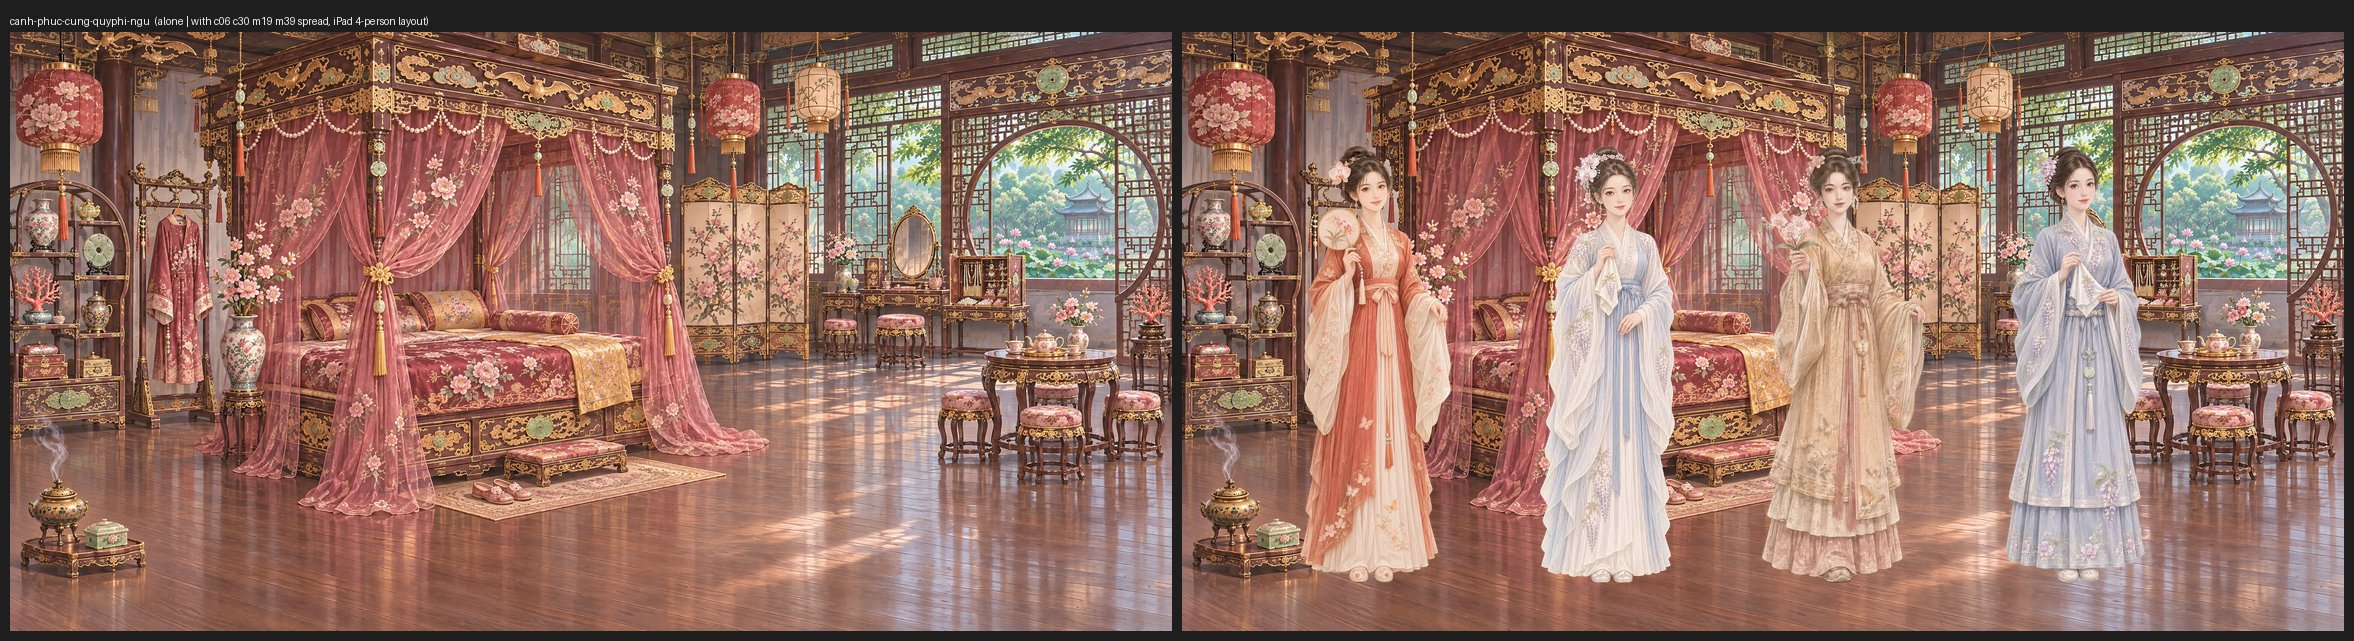
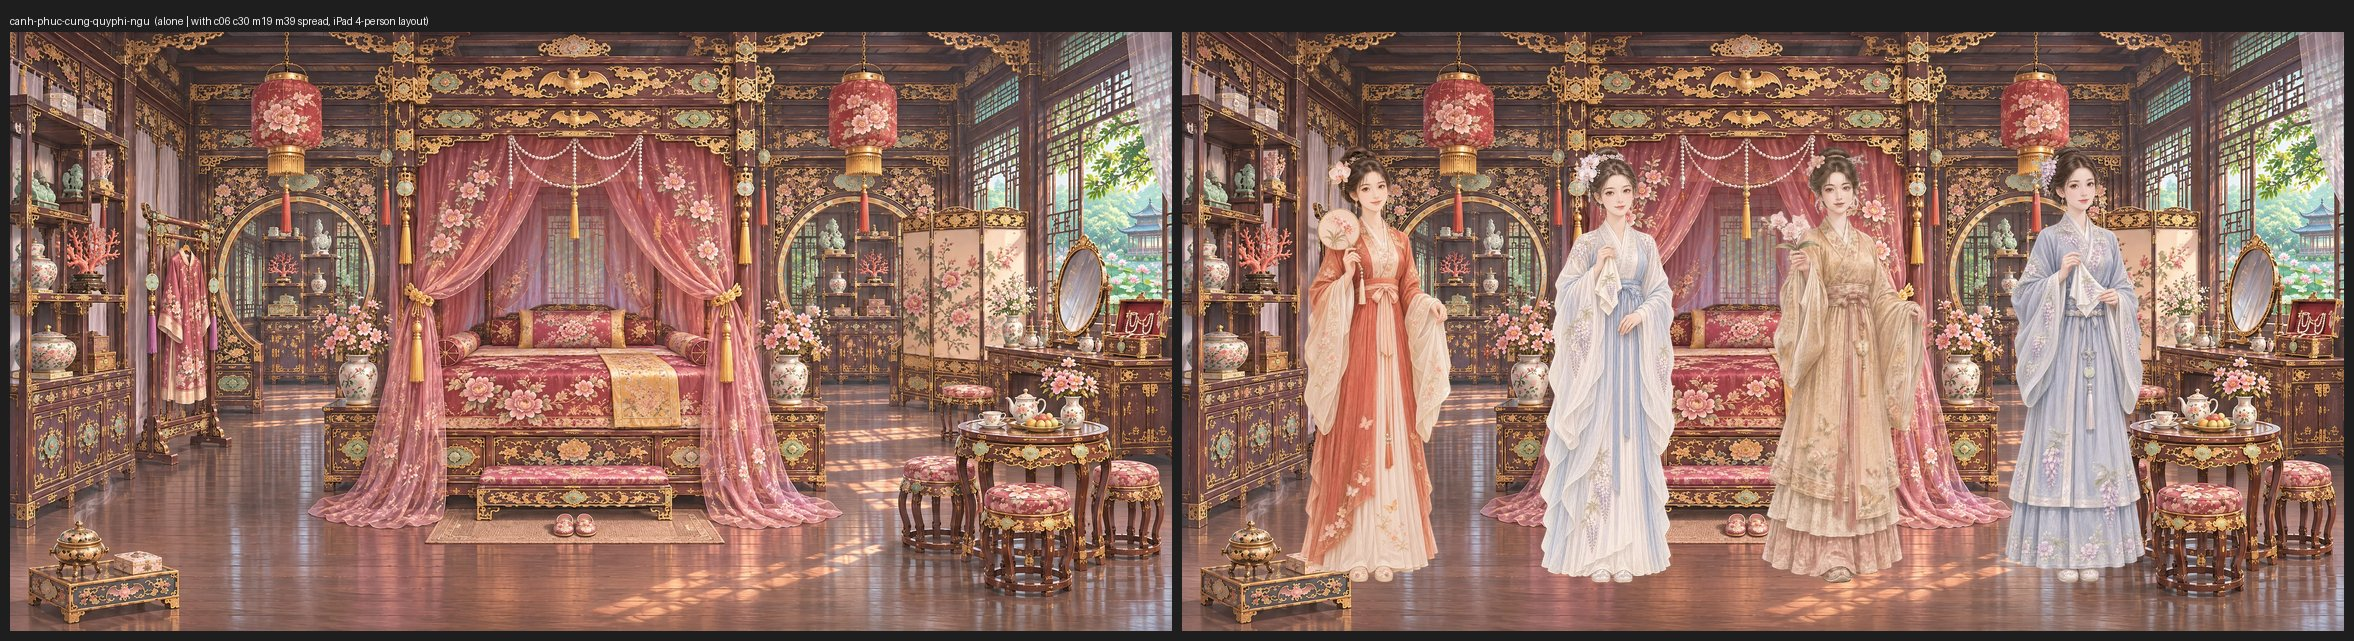
place-rank v5 (Lượt 491): Tần/Quý phi bedrooms new layouts, Phi/Quý phi receptions rectilinear, phối colours by object type + right corner; sheets, ledger, report
Claude-Session: https://claude.ai/code/session_01PEhRbwZcg5EhaVX7kgkTY3

diff --git a/dev/art/place-rank/prompts.py b/dev/art/place-rank/prompts.py
@@ -3,7 +3,7 @@
 v3 (owner Lượt 461 A–D + Lượt 462): luohan daybed receptions, bottom-right corner rule, phối bedroom with two beds + three low-rank
 colours, richness shifted up one step (phối = old Tần level), Quý phi gold-yellow a bit more visible.
 python3 dev/art/place-rank/prompts.py  -> writes prompts.json next to this file."""
-import json, os
+import json, os, re
 D = os.path.dirname(os.path.abspath(__file__))
 T = open(os.path.join(D, '..', 'place-redraw', 'prompt_template.txt')).read().strip()
 NOPE = ' No phoenix anywhere (no phoenix carving, embroidery, figure or pendant), no imperial yellow, no golden-yellow fabrics.'
@@ -89,11 +89,73 @@ ROOMS['thua-minh-cung-dong-phoi'] = dict(room="Thừa Minh cung Đông phối đ
         floor='warm polished wooden floorboards', mat='the luohan daybed', key='the luohan daybed with its kang table')
 V4REF = 'SyhTG51Ub8'  # image 3 = layout reference (v3 Phi bedroom)
 V4 = ('canh-phuc-cung-phi', 'canh-phuc-cung-quyphi', 'thua-minh-cung-dong-phoi-ngu', 'thua-minh-cung-dong-phoi')
+
+# ---- v5 (owner Lượt 491, FIGURE_GATE 14d, ART_RULES L5 L7 L11; ROOT-49 GO for ONE round) ----
+# KEEP: canh-phuc-cung-phi-ngu (v3 SyhTG51Ub8 = layout template), canh-phuc-cung-tan (WDgFohIcXe), thua-minh-cung-dong-phoi (JNCp5R3Oq4),
+# khon-ninh-cung + khon-ninh-cung-ngu. REDRAW: tan-ngu, quyphi-ngu, phi + quyphi receptions, phối bedroom. Tần ≠ Phi ≠ Quý phi (L11).
+RECT = (" ROOM SHAPE (owner Lượt 491): the room reads rectilinear with square corners, straight walls and straight beams, never a curved hall, "
+        "never furniture in an arc or a curve; every piece of furniture stands in clear straight lines along the walls, square to the walls, orderly, "
+        "never scattered and never at a slant.")
+CORNER5 = (" LAYOUT NUMBERS (owner Lượt 477, 491): seen from as close as in image 3, the furniture fills about five sixths of the room, the main piece "
+           "large with its base reaching down to about four fifths of the picture height; the open floor in front is only a strip of about one fifth "
+           "of the picture height at the centre, never more floor than in image 3, and nothing stands on that strip, because people will stand there. "
+           "Image 3 is only a guide for how close and how full the room is, NOT for where things stand: this room has its own different arrangement "
+           "as written above. The right corner is furnished, never empty or bare: a table group stands there inside the outer fifth of the width, "
+           "set back from the bottom edge, between one half and seven eighths of the picture height, so a person standing in front of it covers it naturally.")
+L5BED = {
+ 'tan': ("seen as a corner of two walls meeting at a square corner on the right: the back wall straight across the picture and the right side wall "
+         "running towards the viewer in clear perspective, with tall carved lattice windows in the right side wall onto a sunny courtyard garden with "
+         "a tree and a lotus pond; dark rosewood pillars and beams; the canopy bed stands in a real bed place in the RIGHT half of the back wall: set "
+         "deep into a carved rosewood bed alcove built into the back wall just right of the centre (the bed between about two fifths and three quarters "
+         "of the width), its back and both ends enclosed by the alcove, its long side facing the room, two steps in front of it; in the LEFT part of "
+         "the back wall a carved wooden partition with a round moon-gate opening shows a glimpse of a small study with a desk and bookshelves; between "
+         "the moon gate and the bed alcove a dressing table with a mirror stands flat against the back wall; "),
+ 'quyphi': ("seen straight on as a correct box of three walls with square corners: the back wall straight across the picture and the left and right "
+            "side walls running towards the viewer in clear one-point perspective; dark rosewood pillars and beams; the canopy bed stands exactly "
+            "centred against the back wall on a low carved platform, perfectly symmetric, with a carved rosewood partition with a round moon-gate "
+            "opening on EACH side of it in the back wall, the two moon gates mirroring each other; tall carved lattice windows in the right side wall "
+            "onto a sunny courtyard garden with a tree and a lotus pond; tall curio shelves standing flat against the left side wall; "),
+}
+L5REC = {
+ 'phi': ("seen as a corner of two walls meeting at a square corner on the left: the back wall straight across the picture and the left side wall "
+         "running towards the viewer in clear perspective; dark rosewood pillars and beams, carved lattice windows across the right part of the back "
+         "wall opening onto a sunny courtyard garden with a tree and a lotus pond, a carved wooden partition with a round moon-gate opening in the "
+         "left side wall; the luohan daybed stands against the back wall a little right of the centre, square to it and seen straight on, a carved "
+         "screen behind it; ONE straight row of armchairs with tea tables between them stands flat along the left side wall, from the moon gate "
+         "towards the room, square to that wall (seen in perspective, never curved); one more pair of armchairs with a tea table stands in a straight "
+         "line against the back wall to the left of the daybed; "),
+ 'quyphi': ("seen straight on as a correct box of three walls with square corners: the back wall straight across the picture and the left and right "
+            "side walls running towards the viewer in clear one-point perspective, like a real rectangular hall; dark rosewood pillars and beams, "
+            "carved lattice windows high in both side walls opening onto a sunny courtyard garden, a carved wooden partition with a round moon-gate "
+            "opening in the back wall to the left; the luohan daybed stands on a low wide platform against the back wall, exactly centred, square to "
+            "it and seen straight on, a large screen behind it; TWO straight rows of armchairs with tea tables between them stand along the left and "
+            "the right side walls, each row flat against its wall and square to it, the two rows facing each other across the room (seen in "
+            "perspective, never curved, never turned towards the viewer); "),
+}
+for k in ('tan', 'quyphi'):
+    r = RANK[k]
+    ROOMS[f'canh-phuc-cung-{k}-ngu'] = dict(room="Cảnh Phúc cung chính điện bedroom, the private bedchamber of the imperial consort who heads this palace in ancient China, a real room in daily use, "
+        + L5BED[k] + "the canopy bed is the large clear main subject: " + r['bed'] + "; around the room, along the walls, " + r['bedx'] + ". " + CARD_CP + r['lux']
+        + f" The {r['col']} accent colour is woven through the bedding, curtains and cushions." + (NOPE_QF if r['nope'] else NOPE) + RECT + CORNER5,
+        floor='warm polished wooden floorboards', mat='the bed step', key='the canopy bed')
+for k in ('phi', 'quyphi'):
+    r = RANK[k]
+    ROOMS[f'canh-phuc-cung-{k}'] = dict(room="Cảnh Phúc cung chính điện reception room, the sitting room where the imperial consort who heads this palace in ancient China receives her guests, a real room in daily use, no bed anywhere: "
+        + L5REC[k] + "the furniture: " + re.sub(r', flanked on each side by a pair of (.*?) with a small tea table between each pair', r'; the armchairs are \1, standing only in the straight rows described above', r['rec']) + ". " + CARD_CP + r['lux'] + f" The {r['col']} accent colour is woven through the cushions, curtains and silks."
+        + (NOPE_QF if r['nope'] else NOPE) + NOSOFA + RECT + CORNER5,
+        floor='warm polished wooden floorboards', mat='the luohan daybed', key='the luohan daybed with its kang table')
+# PHỐI v5 (L7): split by OBJECT TYPE, not by bed: ALL curtains pale blue, ALL furniture fabrics pale green; layout close to v4 1ldAmKir4r (image 3 here)
+ROOMS['thua-minh-cung-dong-phoi-ngu'] = dict(room="Thừa Minh cung Đông phối điện bedroom, the cosy bedchamber SHARED by two lower-ranking imperial consorts (a Thường tại and a Quý nhân) living in the east side hall of a palace in ancient China, a real room in daily use, seen from a little closer so the room feels snug and full, not a big empty hall: wooden pillars, lattice windows at the back onto a sunny garden, the back wall and both sides lined with furniture; TWO canopy beds of carved lacquered wood with painted flowers stand side by side against the back wall, square to it, with a painted orchid screen between them, together the large clear main subject, each bed with its own small dressing table with a bronze mirror, a stool and a clothes rack with a robe; along the walls a shelf with a few boxes and books, hanging paper lanterns with tassels, vases of white and blue orchids, slippers at the bed steps. COLOURS BY OBJECT TYPE (owner Lượt 491): ALL the curtains of the room are pale blue (the gauze curtains of BOTH beds, the window curtains, the lantern tassels), and ALL the furniture fabrics are pale green (the bedding and cushions of BOTH beds, the stool cushions, the seat cushions, the robes on the racks); the two beds look alike in colour, never one bed blue and the other green. " + QN + " Exactly two beds; only the two colours pale blue (curtains) and pale green (fabrics)." + NOPE + RECT + CORNER5.replace("a table group stands there", "a small round tea table with two stools and a low cabinet with a vase of orchids stand there").replace("so a person standing in front of it covers it naturally.", "so a person standing in front of it covers it naturally; this group stands forward in the right part of the room, NOT pushed back against the window wall: its front stools stand at about five sixths of the picture height, so the lower right of the picture is furnished and never bare floor, like the tea table in the right corner of an Empress's bedroom.").replace("Image 3 is only a guide for how close and how full the room is, NOT for where things stand: this room has its own different arrangement as written above.", "Image 3 is the previous version of this same room: keep its layout, closeness and fullness closely; only the colours change and the right corner is furnished."),
+        floor='warm polished wooden floorboards', mat='the bed steps', key='the two canopy beds')
+V5 = ('canh-phuc-cung-tan-ngu', 'canh-phuc-cung-quyphi-ngu', 'canh-phuc-cung-phi', 'canh-phuc-cung-quyphi', 'thua-minh-cung-dong-phoi-ngu')
+V5REF = {k: 'SyhTG51Ub8' for k in V5}; V5REF['thua-minh-cung-dong-phoi-ngu'] = '1ldAmKir4r'  # image 3 (share guide; phối = its own v4 layout)
 out = {}
 for k, r in ROOMS.items():
     out[k] = (T.replace('{SEASON_TIME}', 'summer morning').replace('{TIME_LIGHT}', 'morning daylight').replace('{ROOM_LINE}', r['room'])
                .replace('{FLOOR}', r['floor']).replace('{MAT_UNDER}', r['mat']).replace('{KEY_PIECE}', r['key']))
     # the only right-side mention allowed is the RIGHT sentence (ROOT-48 wording for owner Lượt 461 B)
+    if k in V5:
+        assert '{' not in out[k] and 'right corner nearest the viewer stays almost clear' not in r['room'], k; continue
     assert 'right side' not in r['room'] and r['room'].count('right') == 1 + (k in V4) * CORNER.count('right') + (k == 'thua-minh-cung-dong-phoi-ngu') and '{' not in out[k], k
 json.dump(out, open(os.path.join(D, 'prompts.json'), 'w'), ensure_ascii=False, indent=1)
 print(len(out), max(len(v) for v in out.values()))

diff --git a/dev/handover/reports/place-rank-sample.md b/dev/handover/reports/place-rank-sample.md
@@ -137,3 +137,29 @@ REDRAW:
 4. canh-phuc-cung-phi + canh-phuc-cung-quyphi receptions (ov6szIo829, 8ailnauIrU): chairs in an ARC + curved 3-face hall = "very AI" → rectilinear room, square corners, 2 walls (like the bedrooms / Tần reception) or a correct 3D box like the phối reception JNCp5R3Oq4 (owner likes it); furniture in straight lines along the walls.
 7. Re-check ALL other rooms (Tần reception WDgFohIcXe, phối reception JNCp5R3Oq4) against L5/L11; redraw only rule breakers; list checked/kept/redrawn with reasons in the report.
 Tools (all from PR4/PR5): prompts.py → prompts.json (V4 tuple, CORNER = LAYOUT NUMBERS sentence, CORNER_473 old one, ORDER sentence for receptions, V4REF = SyhTG51Ub8 as image 3; assert counts 'right' — adjust when adding corner sentences). Gen: images_generate mode gpt-2-6, resolution 2k, width 2688, height 1386, folderReference ba4aecfe-efce-47e2-b53f-30d292091886, refs gOmYI7iSXO + EbYJzsMuuO (+ layout ref), max 1 redo each; creations_wait → creations_register_download → curl results.url → PIL save WEBP q88 to img/_review/place-rank/<name>-ha-sang.webp. Look with a 10 % grid contact sheet (PR5 scratch grid.py: resize 900x464, red lines every 10 %), full size only to judge a fault. Sheets: python3 dev/art/place-rank/sheets.py FIGDIR img/_review/place-rank (grid4 = room small alone + large with 4 figures; then mv place-canh-phuc-cung-quyphi-ngu-canh-phuc-cung-quyphi-ngu-spread.jpg place-rank-quyphi-ngu-spread.jpg; copy the 3 jpgs to dev/handover/review-sheets/place-rank/; cdn_sync img/_review/place-rank). FIGDIR: curl https://ctm-img.victoria-tntt.workers.dev/img/{fig-consort-c06-t1-a18,fig-consort-c30-t1-a18,fig-maid-m19-t1-a18,fig-maid-m39-t1-a18}.webp. Ledger: one line per gen in dev/art/gen_ledger.jsonl (kind PLACE-RANK, see PR5 lines). Lessons: the model drifts to too much floor without the layout ref image; first gens with only wording failed. Budget guess: 6–7 rooms × (1 + redo) ≈ 1,600–1,900 cr — confirm cap with ROOT-49.
+
+## v5 — DONE by PR6 (owner Lượt 491, FIGURE_GATE 14d, ART_RULES L5 L7 L11; ROOT-49 GO for ONE round) → STOP, waiting for the owner's verdict
+Foreman ROOT-49 answer to PR5's question: KEEP the Phi bedroom v3 (Lượt 477 layout template); redraw Quý phi + Tần bedrooms each with its own layout.
+0. v4 files + sheets copied to img/_review/place-rank/v4/ (disk + CDN).
+Prompts: dev/art/place-rank/prompts.py v5 block → prompts.json (5 rooms rebuilt; the 5 kept rooms keep their old prompts). New shared sentences: RECT (L5 rectilinear, straight lines, no arc) + CORNER5 (Lượt 477 numbers + "image 3 only for how close/full, NOT where things stand" + right corner furnished, set back from the bottom edge). The old RIGHT sentence ("bottom-right almost clear") is dropped in v5 rooms (it caused the empty corner). Receptions: the LUOHAN "flanked on each side" wording is replaced by "armchairs standing only in the straight rows described above" (the flanking wording is the likely cause of the arcs). Layout lines per rank in L5BED / L5REC.
+LAYOUTS (L11, every rank step different):
+- Bedrooms: Tần = 2 walls (corner right, windows in the right side wall), bed set into an alcove just RIGHT of centre, moon gate + study at the LEFT · Phi (kept v3) = frontal, bed LEFT of centre, moon gate far left · Quý phi = 3-wall box, bed CENTRED on a platform between two mirrored moon gates.
+- Receptions: Tần (kept v3) = frontal, daybed left of centre, moon gate left · Phi = 2 walls (corner left), one straight armchair row flat along the left wall, daybed right of centre · Quý phi = 3-wall box, daybed centred on a platform, two straight armchair rows along the side walls facing each other.
+| picture v5 | gen id | measured (x/y % of width/height) | verdict |
+|---|---|---|---|
+| canh-phuc-cung-tan-ngu | EbY494KuuO (redo of s7Iczu2l8e: alcove bed but centre-left, same order as the Phi bedroom → L11) | bed x 35–74, step base y 80; right tea group x 78–100, y 55–85 | kept |
+| canh-phuc-cung-quyphi-ngu | VX7KHZNMMU (first gen) | bed x 27–71, base y 82; right tea group x 76–100, y 47–93 | kept; FAULT: front stool reaches y 93 (a bit below 7/8); bottom-left incense box ≈ 14 % tall |
+| canh-phuc-cung-phi | ov6ljBx829 (first gen) | daybed x 44–77, base y 75; left chair row x 0–27; guqin table + stool x 84–100, y 57–84 | kept; FAULT: floor ≈ 25 % at the centre (template 22 %); front armchair at the left edge (as in the kept Tần reception) |
+| canh-phuc-cung-quyphi | gOmTc4oSXO (first gen) | daybed x 36–68, platform base y 73; chair rows x 0–21 / 79–100 | kept; FAULT: floor ≈ 27 % at the centre (more than the template); armchairs at both edges |
+| thua-minh-cung-dong-phoi-ngu | cpSqbrH0eP (redo of DoO1KBtpcl: colours right but tea group pushed back to y 48–65, lower right bare again) | two beds x 20–76, base y 80; tea table + stools x 80–100, y 54–83 | kept; ALL curtains pale blue, ALL fabrics pale green (both beds alike); image 3 = v4 1ldAmKir4r |
+No phoenix: friezes checked full size (gilt bats with bat wings).
+RE-CHECK of the other rooms (L5/L11):
+- canh-phuc-cung-phi-ngu (v3 SyhTG51Ub8): KEPT — foreman decision (the L5 template), rectilinear, its own layout now that Tần/Quý phi differ.
+- canh-phuc-cung-tan (v3 WDgFohIcXe): KEPT — 2 walls, furniture in straight lines along the walls, floor ≈ 22 % (= template); layout differs from the new Phi (corner right vs left, daybed left vs right of centre) and Quý phi (box) receptions.
+- thua-minh-cung-dong-phoi (v4 JNCp5R3Oq4): KEPT — owner likes it (14d 4: the correct 3D box example); it is a different palace/rank (Quý nhân), so L11 is not touched; its cushions mix green + blue (L7 is stated for the bedroom).
+- khon-ninh-cung + khon-ninh-cung-ngu: KEPT — owner OK (14d 6).
+PEOPLE: sheets A and B show all 10 rooms small alone + large with the 4 figures spread (sheets.py grid4).
+- A: dev/handover/review-sheets/place-rank/place-rank-A-canh-phuc.jpg · https://ctm-img.victoria-tntt.workers.dev/img/_review/place-rank/place-rank-A-canh-phuc.jpg
+- B: dev/handover/review-sheets/place-rank/place-rank-B-phoi-khon-ninh.jpg · https://ctm-img.victoria-tntt.workers.dev/img/_review/place-rank/place-rank-B-phoi-khon-ninh.jpg
+- spread: dev/handover/review-sheets/place-rank/place-rank-quyphi-ngu-spread.jpg · https://ctm-img.victoria-tntt.workers.dev/img/_review/place-rank/place-rank-quyphi-ngu-spread.jpg
+Credits v5: 7 gens × 135 = 945 (5 kept + 2 rejected first gens). TOTAL place-rank = 52 gens = 7,020 credits.
